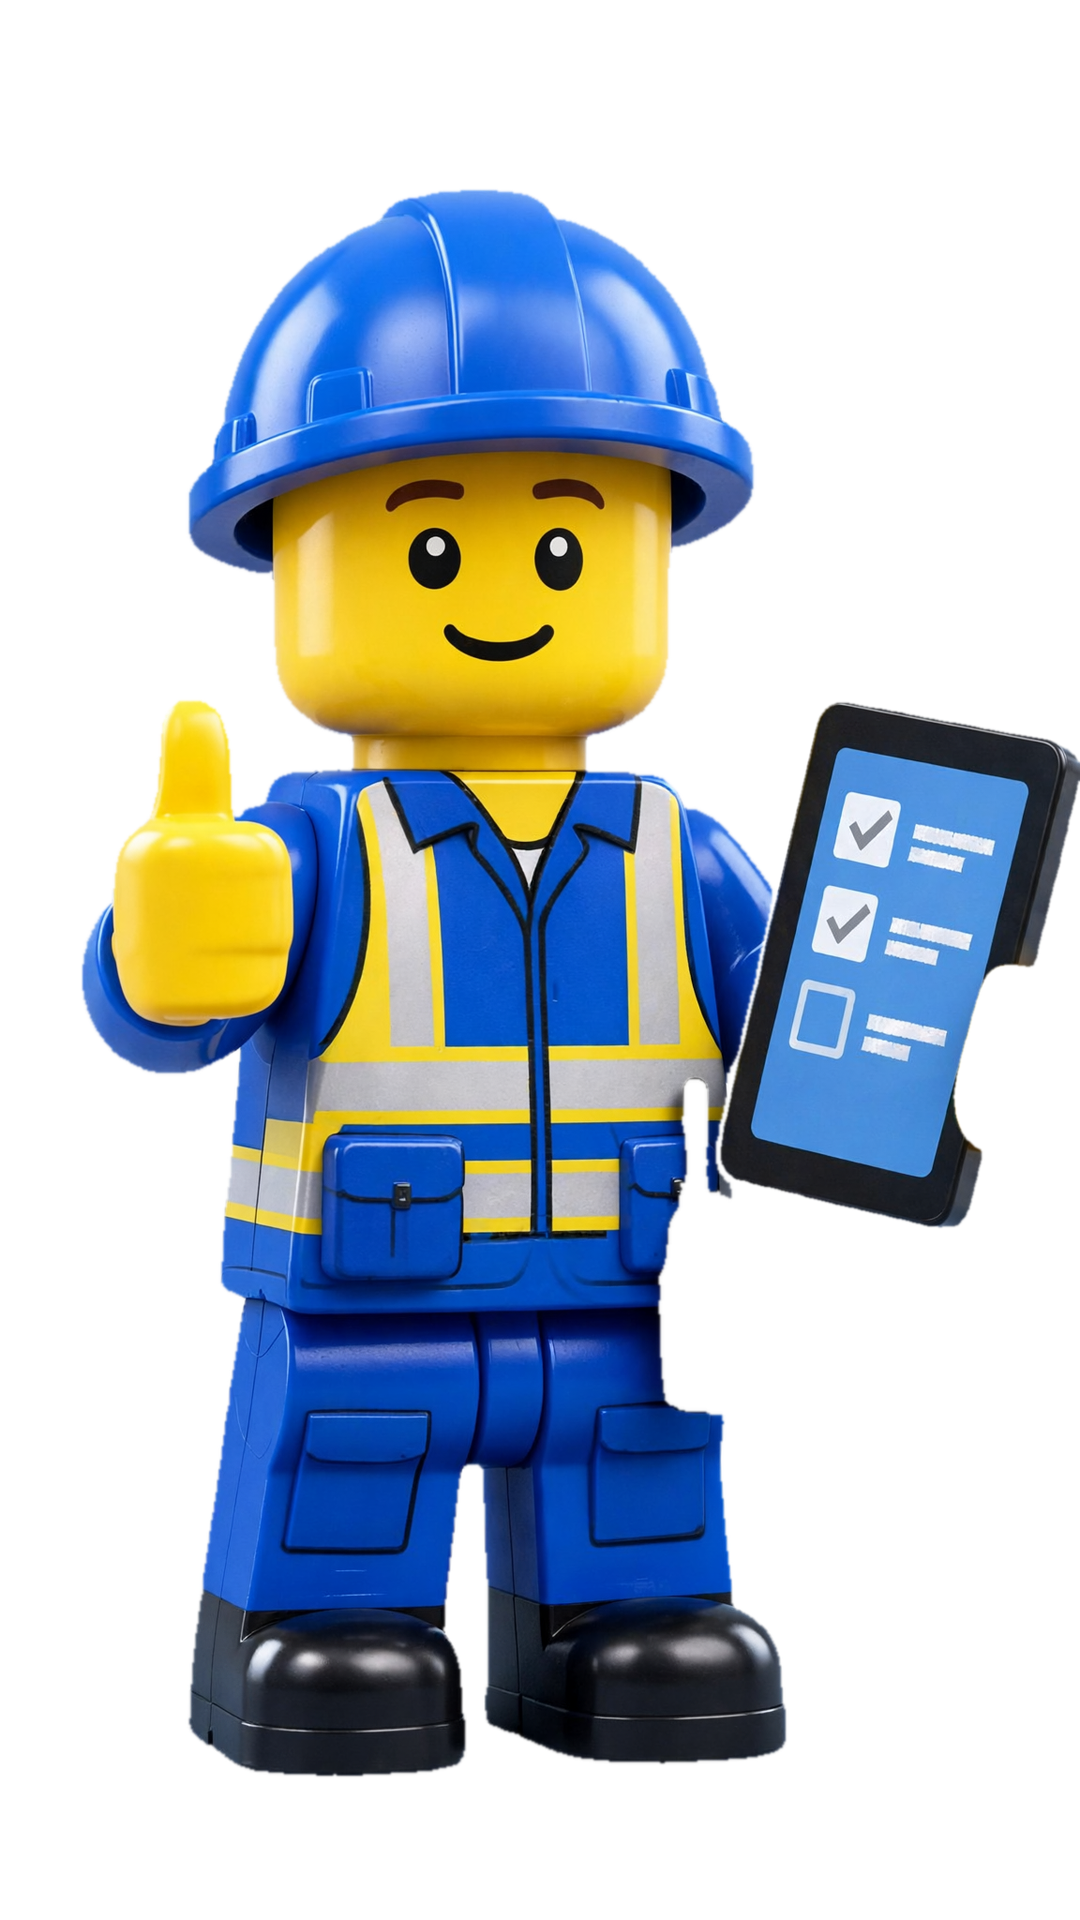
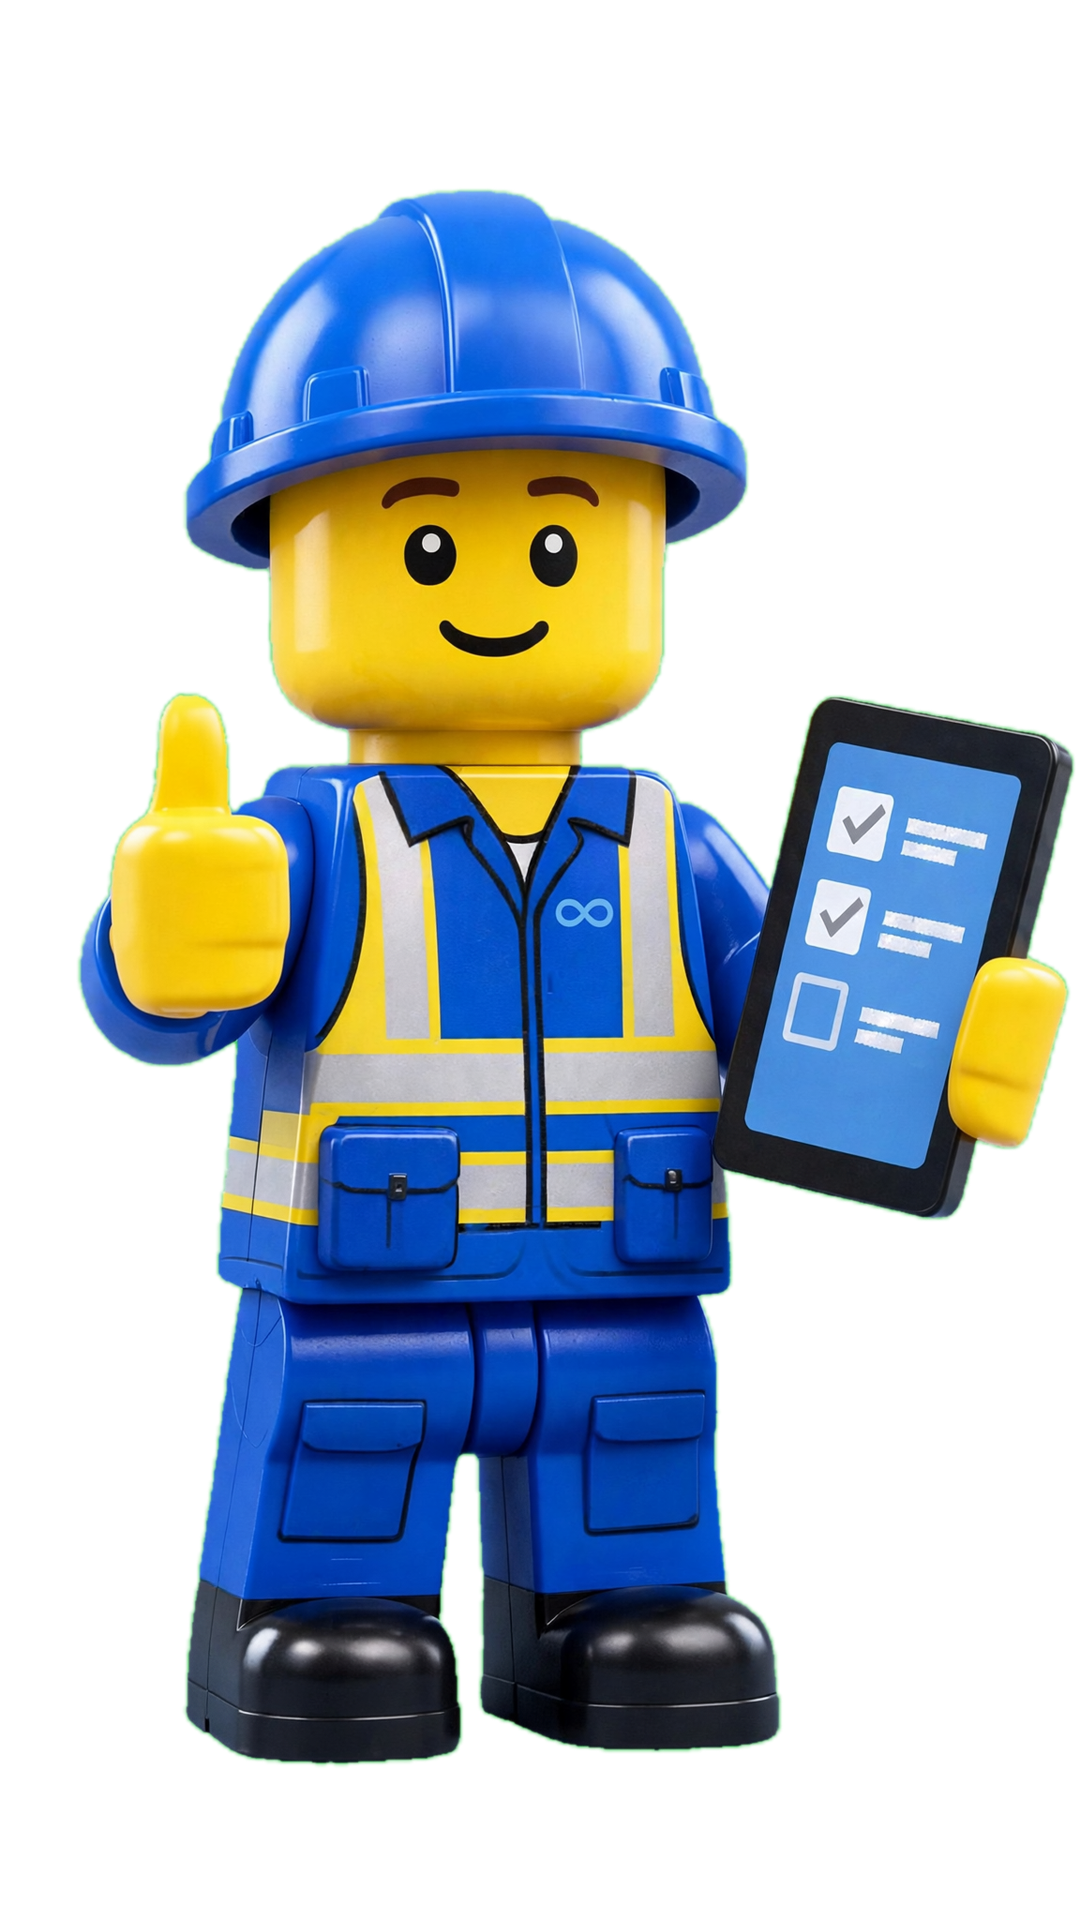
Redraw Şef with Muse Image: the infinity sign on his vest, the hand that holds the tablet
Drawn on chroma green, since the grey backdrop ate his reflective stripes; cut by SAM 3.1.
The first portrait is kept as sef-v1.png. CI badge on the README.

Changed region(s): [[0.0611, 0.0938, 1.0, 0.9375], [0.4889, 0.0938, 0.5194, 0.125]]

diff --git a/experiments/mascot_portraits.py b/experiments/mascot_portraits.py
@@ -26,14 +26,17 @@ from cbyp.sam import segment_image  # noqa: E402
 MASCOTS = Path(__file__).resolve().parent.parent / "assets" / "mascots"
 OUT = MASCOTS / "portraits"
 SIZE = "1080x1920"
-SAVE_SIZE = (1080, 1920)   # cut() output; None keeps the figure's own box
+SAVE_SIZE = (1080, 1920)
+# Redrawn on 5 Nov from their earlier portrait (kept as <name>-v1.png)
+REDRAW = {"sef": [OUT / "sef-v1.png"],
+          "iris": [OUT / "iris-v2.png", OUT / "iris-v1.png"]}   # v2: the bag, v1: the flower charm   # cut() output; None keeps the figure's own box
 
 # hello/<file>.jpg -> a flat backdrop that none of the character's own colours is close to.
 CAST = {"spark": "spark", "sam": "sam", "voice": "voice", "kapi": "kapi", "sef": "sef",
         "wonder": "wonder", "rover": "spark-open", "glimmer": "glimmer", "iris": "iris",
         "ada": "ada"}
 BG = {"spark": "light grey", "sam": "light grey", "voice": "light grey", "kapi": "white",
-      "sef": "light grey", "wonder": "light grey", "rover": "light grey",
+      "sef": "bright chroma green",   # 5 Nov: grey ate his reflective vest stripes "wonder": "light grey", "rover": "light grey",
       "glimmer": "light grey", "iris": "light grey", "ada": "light grey"}
 
 # What each one holds: told to Muse Image (it dropped Sam's tablet once), and
@@ -45,7 +48,12 @@ PROPS = {
     "kapi": ("holding the plain red-and-white striped barrier baton in one hand (red and white "
              "only, no stars, no blue) and waving with the other, as in the reference",
              ["striped baton"]),
-    "sef": ("holding the checklist tablet and giving a thumbs up, as in the reference",
+    # Şef, Sena 5 Nov: the small blue infinity sign the rest of the cast wears, on his vest.
+    "sef": ("giving a thumbs up with one hand and holding the checklist tablet firmly in the other "
+            "yellow hand, the hand clearly visible gripping the tablet's edge; keep his "
+            "yellow minifigure head, blue hard hat, blue work vest and blue trousers exactly; "
+            "the only change: a small light-blue infinity sign printed on the left chest of the "
+            "vest",
             ["tablet"]),
     "wonder": ("holding the fountain pen and the clipboard with a red seal, as in the reference",
                ["pen", "clipboard"]),
@@ -53,7 +61,12 @@ PROPS = {
               ["backpack", "paper"]),
     "glimmer": ("holding the small glowing crystal orb in her hand, as in the reference",
                 ["glowing orb", "crystal ball", "hand"]),
-    "iris": ("holding the paint palette and paintbrush, the shoulder bag on, as in the reference",
+    # Iris, Sena 5 Nov: a proper bag (the first one was an open, hollow frame).
+    "iris": ("holding the paint palette and paintbrush, exactly as in the first reference: the "
+             "same face, hair with the pencil, cream jumper with the pink infinity sign, beige "
+             "trousers, white trainers and the same closed brown leather satchel with its flap "
+             "and buckle; the only addition, from the second reference: a small pink "
+             "five-petal flower charm clearly hanging from the satchel's buckle, easy to see",
              ["paint palette", "paintbrush", "bag"]),
     # Ada, Sena 31 Oct: the blue infinity sign on her hoodie like the rest of the cast, and
     # an open dark grey laptop like Sam's tablet (the earlier pink one with stickers was wrong),
@@ -71,7 +84,7 @@ PROPS = {
 
 # SAM found no mask for Sam's tablet or Voice's microphone under any word we tried. For these
 # two, whatever stands out from the flat backdrop and touches SAM's figure is kept too.
-KEY = {"sam", "voice"}
+KEY = {"sam", "voice", "sef"}
 
 PROMPT = (
     "The same character as in the reference images, exactly the same design: same face, hair, "
@@ -105,6 +118,8 @@ def draw(name):
     refs = [MASCOTS / "hello" / f"{hello}.jpg"]
     if name == "ada":   # her current look first, Sam for the logo and the device
         refs = [OUT / "ada-v2.png", OUT / "ada-v1.png", OUT / "sam.png"]
+    if name in REDRAW:   # its own portrait only (with Sam as a second reference Şef became Sam)
+        refs = REDRAW[name]
     sheet = MASCOTS / "sheets" / f"{hello}.jpg"
     if sheet.exists():
         refs.append(sheet)

diff --git a/README.md b/README.md
@@ -1,6 +1,7 @@
 <div align="center">
 
 <a href="https://cerebralvalley.ai/e/meta-ai-developer-hackathon"><img alt="Meta Global AI Developer Hackathon 2026" src="https://img.shields.io/badge/Meta_Global_AI_Developer_Hackathon-2026-0866FF?style=for-the-badge&logo=meta&logoColor=white"></a>
+<a href="https://github.com/kosesena/count-before-you-post/actions/workflows/checks.yml"><img alt="Offline checks" src="https://github.com/kosesena/count-before-you-post/actions/workflows/checks.yml/badge.svg"></a>
 <img alt="Indie developer track" src="https://img.shields.io/badge/Indie_developer_track-Build_for_Your_World-1C2B33?style=for-the-badge">
 
 <a href="https://count-before-you-post.vercel.app"><img src="assets/readme/toybox.jpg" alt="A child's hands hold the Count Before You Post toy box: a blue box with the ten figures in front of a warehouse dock" width="100%"></a>
